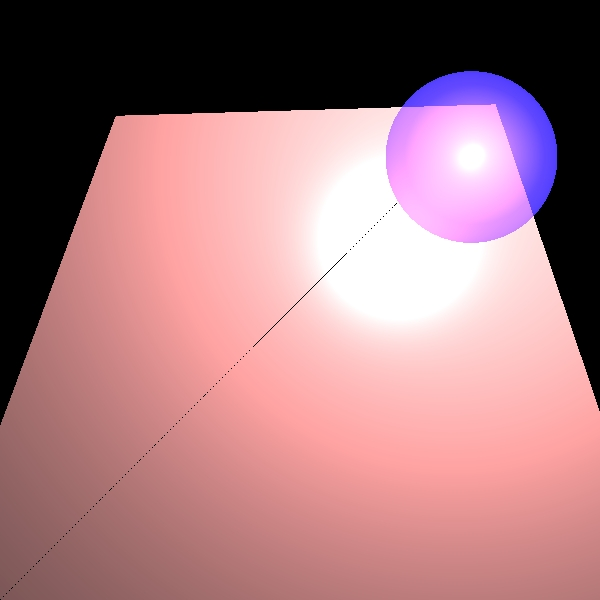
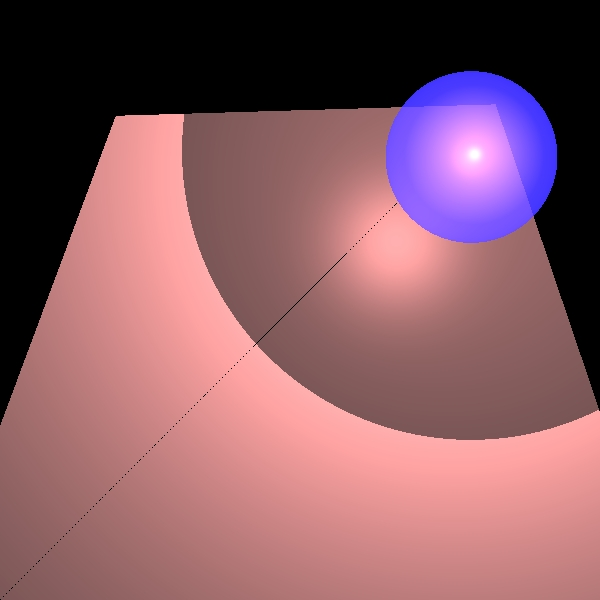
ex 7 step 3 finished

Changed region(s): [[0.3, 0.12, 1.0, 0.75]]

diff --git a/src/renderer/Render.java b/src/renderer/Render.java
@@ -167,12 +167,12 @@ public class Render {
                 double nv = alignZero(n.dotProduct(v));
 
                 if (sign(nl) == sign(nv)) { // Check that 𝒔𝒊𝒈𝒏(𝒍∙𝒏) == 𝒔𝒊𝒈𝒏(𝒗∙𝒏) according to Phong reflectance model
-                    if (unshaded(lightSource, l, n, gp)) {
-                        Color lightIntensity = lightSource.getIntensity(gp.getPoint());
+                    double ktr = transparency(lightSource, l, n, gp);
+                    if (ktr * k > MIN_CALC_COLOR_K) {
+                        Color lightIntensity = lightSource.getIntensity(gp.getPoint()).scale(ktr);
                         color = color.add(
                                 calcDiffusive(kd, nl, lightIntensity),
-                                calcSpecular(ks, l, n, nl, v, nShininess, lightIntensity)
-                        );
+                                calcSpecular(ks, l, n, nl, v, nShininess, lightIntensity));
                     }
                 }
             }
@@ -290,34 +290,36 @@ public class Render {
     }
 
     /**
-     * Checks weather the point is shaded or not
+     * Returns transparency factor on specific point
      *
-     * @param light light source
+     * @param ls light source
      * @param l
      * @param n
      * @param geoPoint
-     * @return shader or unshaded
+     * @return transparency factor
      */
-    private boolean unshaded(LightSource light ,Vector l, Vector n, GeoPoint geoPoint){
+    private double transparency(LightSource ls, Vector l, Vector n, GeoPoint geoPoint){
         Vector lightDirection = l.scale(-1); // from point to light source
+
         Ray lightRay = new Ray(geoPoint.getPoint(), lightDirection, n);
-        Point3D pointGeo = geoPoint.getPoint();
 
         List<GeoPoint> intersections = _scene.getGeometries().findIntersections(lightRay);
         if (intersections == null) {
-            return true;
+            return 1.0;
         }
 
-        double lightDistance = light.getDistance(geoPoint.getPoint());
+        double lightDistance = ls.getDistance(geoPoint.getPoint());
+        double ktr = 1.0;
         for (GeoPoint gp : intersections) {
-            if (alignZero(gp.getPoint().distance(geoPoint.getPoint()) - lightDistance) <= 0
-                    && gp.getGeometry().getMaterial().getKt() == 0
-            ) {
-                return false;
+            if (alignZero(gp.getPoint().distance(geoPoint.getPoint()) - lightDistance) <= 0){
+                ktr *= gp.getGeometry().getMaterial().getKt();
+                if (ktr < MIN_CALC_COLOR_K)
+                    return 0.0;
             }
         }
-        return true;
+        return ktr;
     }
+
 
     /**
      * Returns refracted ray with delta moving
@@ -374,5 +376,7 @@ public class Render {
         }
         return closestPoint;
     }
+
+
 
 }
